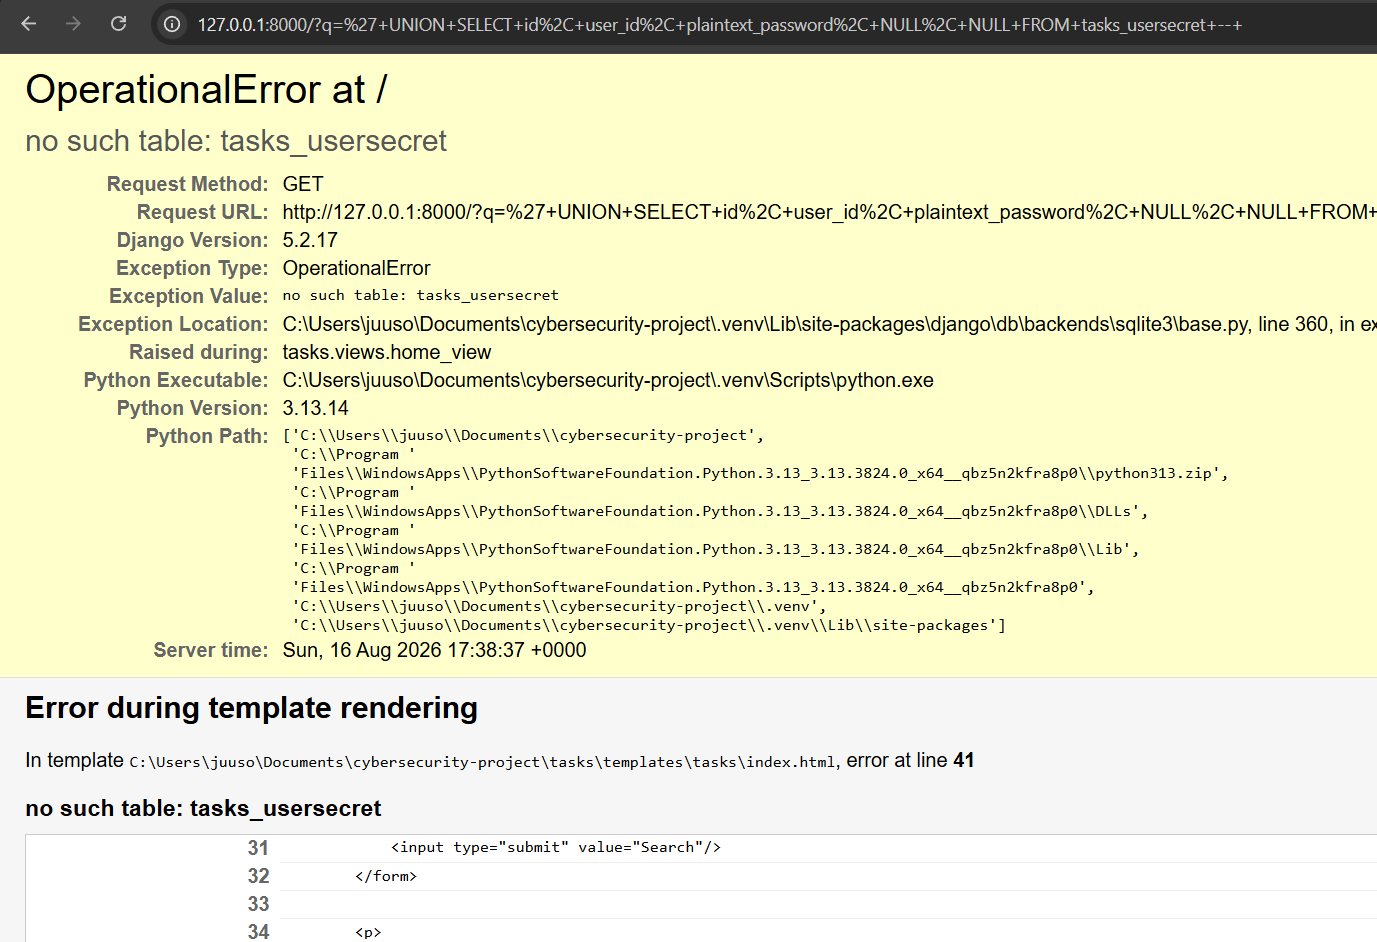
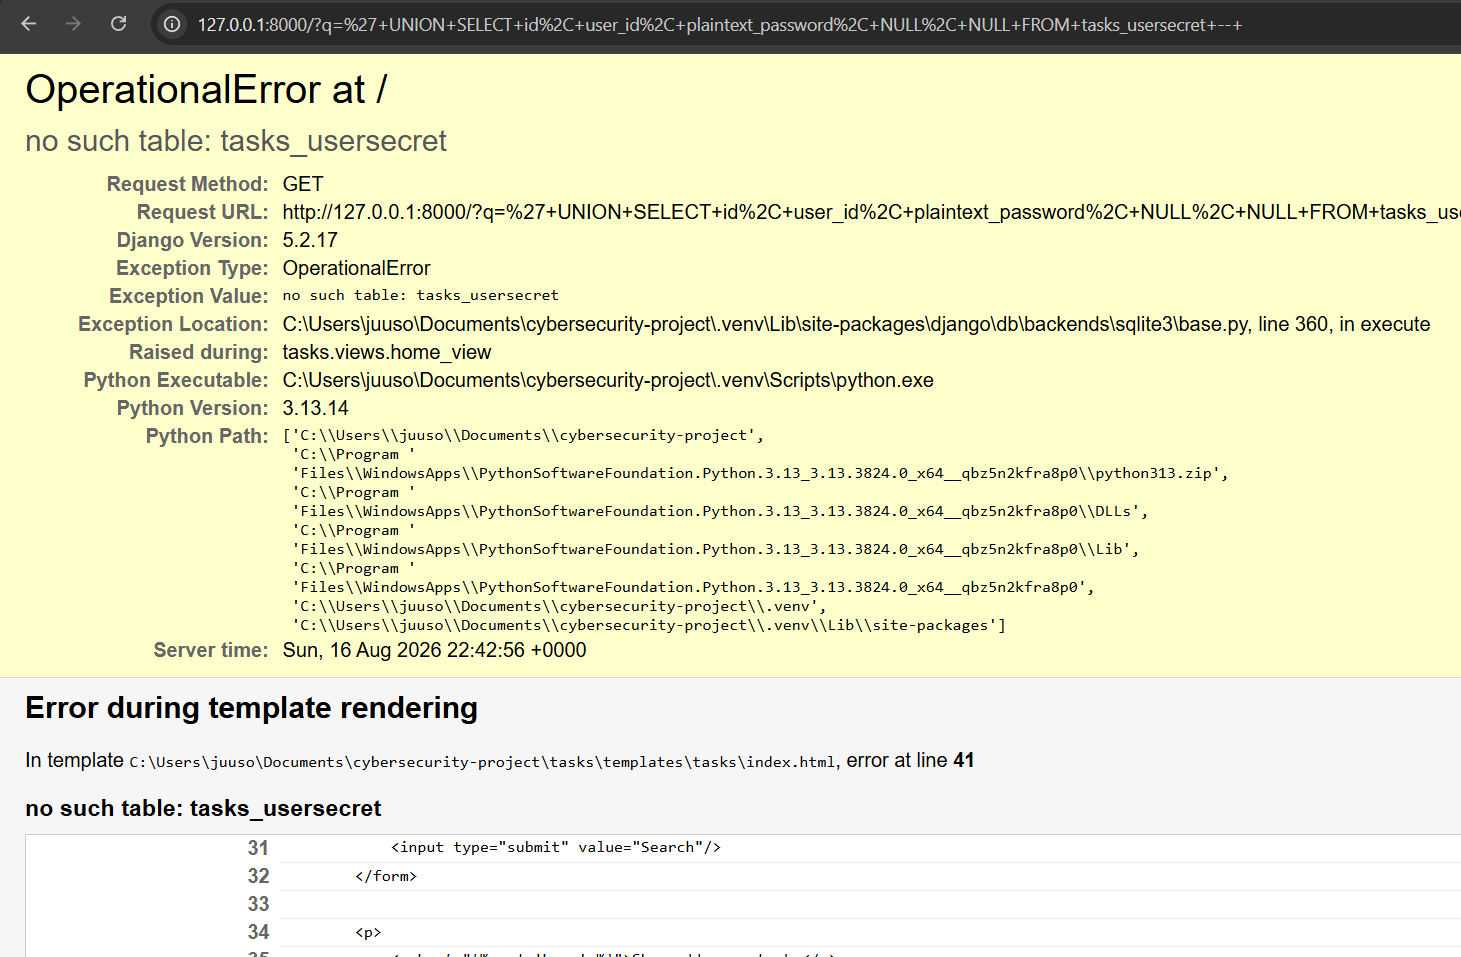
Edited screenshots for flaw 4 and 5 and cleaned flaw 5's comments

Changed region(s): [[0.0, 0.0, 1.0, 1.0], [0.406, 0.9851, 0.4372, 1.0], [0.2498, 0.9851, 0.281, 1.0]]

diff --git a/tasks/views.py b/tasks/views.py
@@ -7,7 +7,9 @@ from django.core.exceptions import ValidationError
 from django.shortcuts import get_object_or_404, redirect, render
 from django.views.decorators.http import require_POST
 
-# FLAW 5: A3:2017 Sensitive Data Exposure
+# Part of FLAW 5: A3:2017 Sensitive Data Exposure
+# Also, notice that code and fixes for FLAW 5 are in in line 193
+# of this views.py and in line 15 of models.py
 from .models import Task, UserSecret
 # FIX for flaw 5: When UserSecret is removed, change the import above to:
 # from .models import Task
@@ -179,18 +181,22 @@ def change_password_view(request):
         #         'error': 'Current password is incorrect.'
         #     })
 
-        # =========================================================
-        # FLAW 5: A3:2017 Sensitive Data Exposure
-        # ---------------------------------------------------------
-        # Vulnerability: The new password is stored in plain text in
-        # the UserSecret model.
-        # ---------------------------------------------------------
+
         try:
             validate_password(new_password, user=target_user)
         except ValidationError as e:
             return render(request, 'tasks/change_password.html', {
                 'error': ' '.join(e.messages)
             })
+
+        # =========================================================
+        # FLAW 5: A3:2017 Sensitive Data Exposure
+        # ---------------------------------------------------------
+        # Vulnerability: The new password is stored in plain text in
+        # the UserSecret model.
+        # Also, notice that code and fixes for FLAW 5 are in in line 10
+        # of this views.py and in line 15 of models.py
+        # ---------------------------------------------------------
 
         secret, created = UserSecret.objects.get_or_create(user=target_user)
         secret.plaintext_password = new_password
@@ -199,18 +205,13 @@ def change_password_view(request):
         # FIX for FLAW 5:
         # Remove the three lines above (get_or_create, assignment, save)
         # because they store the password in plain text.
-        #
-        # secret, created = UserSecret.objects.get_or_create(user=target_user)
-        # secret.plaintext_password = new_password
-        # secret.save()
 
-        # =========================================================
-        # Actual password change using Django's built-in mechanism
-        # =========================================================
+
+
         target_user.set_password(new_password)
         target_user.save()
 
-        # If the user changed their own password, keep them logged in.
+
         if target_user == request.user:
             update_session_auth_hash(request, request.user)
 

diff --git a/tasks/migrations/0006_usersecret.py b/tasks/migrations/0006_usersecret.py
@@ -1,0 +1,24 @@
+# Generated by Django 5.2.17 on 2026-08-16 23:12
+
+import django.db.models.deletion
+from django.conf import settings
+from django.db import migrations, models
+
+
+class Migration(migrations.Migration):
+
+    dependencies = [
+        ('tasks', '0005_delete_usersecret'),
+        migrations.swappable_dependency(settings.AUTH_USER_MODEL),
+    ]
+
+    operations = [
+        migrations.CreateModel(
+            name='UserSecret',
+            fields=[
+                ('id', models.BigAutoField(auto_created=True, primary_key=True, serialize=False, verbose_name='ID')),
+                ('plaintext_password', models.CharField(max_length=255)),
+                ('user', models.OneToOneField(on_delete=django.db.models.deletion.CASCADE, to=settings.AUTH_USER_MODEL)),
+            ],
+        ),
+    ]

diff --git a/tasks/models.py b/tasks/models.py
@@ -15,10 +15,12 @@ class Task(models.Model):
 # FLAW 5: A3:2017 Sensitive Data Exposure
 # This model stores the user's plaintext password in the database.
 # If the database is compromised, all passwords are immediately exposed.
+#
+# Also, notice that code and fixes for FLAW 5 are in in line 10 and 193
+# of views.py
 class UserSecret(models.Model):
     user = models.OneToOneField(User, on_delete=models.CASCADE)
     plaintext_password = models.CharField(max_length=255)
-
 
 # FIX: Remove the UserSecret model above entirely. Django's User model
 # already stores a hashed password securely. No plaintext copy is needed.

diff --git a/tasks/migrations/0005_delete_usersecret.py b/tasks/migrations/0005_delete_usersecret.py
@@ -1,0 +1,16 @@
+# Generated by Django 5.2.17 on 2026-08-16 22:42
+
+from django.db import migrations
+
+
+class Migration(migrations.Migration):
+
+    dependencies = [
+        ('tasks', '0004_usersecret'),
+    ]
+
+    operations = [
+        migrations.DeleteModel(
+            name='UserSecret',
+        ),
+    ]
